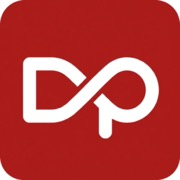
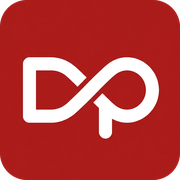
minor changes

diff --git a/app/pages/products/[id].vue b/app/pages/products/[id].vue
@@ -25,7 +25,32 @@ interface ProductDetail {
   features: string[]
 }
 
+interface ProductSummary {
+  id: number
+  name: string
+  category: string
+  image: string
+  rating: number
+  reviews: number
+  badge: string | null
+}
+
 const { data: product, status } = await useFetch<ProductDetail>(`/api/products/${productId}`)
+
+// Fetch all products for the related section
+const { data: allProducts } = await useFetch<ProductSummary[]>('/api/products', {
+  lazy: true,
+  default: () => [],
+})
+
+// Related products: same category first, then others, exclude current, limit to 4
+const relatedProducts = computed(() => {
+  if (!allProducts.value || !product.value) return []
+  const others = allProducts.value.filter(p => p.id !== productId)
+  const sameCategory = others.filter(p => p.category === product.value!.category)
+  const diffCategory = others.filter(p => p.category !== product.value!.category)
+  return [...sameCategory, ...diffCategory].slice(0, 4)
+})
 
 
 // ─── Reactive state ───
@@ -301,6 +326,86 @@ useHead({
                 </Transition>
               </div>
             </div>
+          </div>
+        </div>
+      </section>
+
+      <!-- ═══════════════════════ RELATED PRODUCTS ═══════════════════════ -->
+      <section v-if="relatedProducts.length" class="py-16 px-6 lg:px-20 bg-[#FAFAFA] border-t border-[#E5E5E5]" aria-labelledby="related-heading">
+        <div class="max-w-7xl mx-auto">
+          <div class="flex items-center justify-between mb-8">
+            <h2 id="related-heading" class="font-['Newsreader'] text-2xl lg:text-3xl font-medium text-[#1A1A1A]">
+              Sản phẩm liên quan
+            </h2>
+            <NuxtLink
+              to="/products"
+              class="hidden sm:inline-flex items-center gap-2 text-sm font-medium text-[#0D6E6E] hover:text-[#0A5858] transition-colors"
+            >
+              Xem tất cả
+              <Icon name="solar:arrow-right-outline" size="16" aria-hidden="true" />
+            </NuxtLink>
+          </div>
+
+          <div class="grid grid-cols-2 lg:grid-cols-4 gap-4 lg:gap-6">
+            <NuxtLink
+              v-for="rp in relatedProducts"
+              :key="rp.id"
+              :to="`/products/${rp.id}`"
+              class="group bg-white rounded-2xl overflow-hidden border border-[#E5E5E5] hover:border-[#0D6E6E]/30 hover:shadow-lg transition-all duration-300"
+            >
+              <!-- Image -->
+              <div class="relative aspect-square overflow-hidden bg-[#F5F5F5]">
+                <NuxtImg
+                  :src="rp.image"
+                  :alt="rp.name"
+                  loading="lazy"
+                  decoding="async"
+                  width="400"
+                  height="400"
+                  class="w-full h-full object-cover group-hover:scale-105 transition-transform duration-500"
+                />
+                <!-- Badge -->
+                <span
+                  v-if="rp.badge"
+                  class="absolute top-3 right-3 inline-flex items-center gap-1 px-2.5 py-1 rounded-full text-[11px] font-semibold"
+                  :class="rp.badge === 'Mới' ? 'bg-[#0D6E6E] text-white' : 'bg-[#DC2626] text-white'"
+                >
+                  <Icon :name="rp.badge === 'Mới' ? 'solar:star-bold' : 'solar:tag-price-bold'" size="10" aria-hidden="true" />
+                  {{ rp.badge }}
+                </span>
+              </div>
+              <!-- Info -->
+              <div class="p-4 space-y-2">
+                <h3 class="text-sm font-medium text-[#1A1A1A] leading-snug line-clamp-2 group-hover:text-[#0D6E6E] transition-colors">
+                  {{ rp.name }}
+                </h3>
+                <!-- Rating -->
+                <div class="flex items-center gap-1">
+                  <div class="flex items-center gap-0.5">
+                    <Icon
+                      v-for="star in 5"
+                      :key="star"
+                      name="solar:star-bold"
+                      size="12"
+                      :class="star <= rp.rating ? 'text-amber-400' : 'text-gray-200'"
+                      aria-hidden="true"
+                    />
+                  </div>
+                  <span class="text-xs text-[#999]">({{ rp.reviews }})</span>
+                </div>
+              </div>
+            </NuxtLink>
+          </div>
+
+          <!-- Mobile: View all link -->
+          <div class="flex justify-center mt-8 sm:hidden">
+            <NuxtLink
+              to="/products"
+              class="inline-flex items-center gap-2 px-6 py-3 text-sm font-medium text-[#0D6E6E] border border-[#0D6E6E]/30 rounded-xl hover:bg-[#0D6E6E]/5 transition-colors"
+            >
+              Xem tất cả sản phẩm
+              <Icon name="solar:arrow-right-outline" size="16" aria-hidden="true" />
+            </NuxtLink>
           </div>
         </div>
       </section>

diff --git a/app/components/TheFooter.vue b/app/components/TheFooter.vue
@@ -79,6 +79,71 @@ const footerLinks = {
         </nav>
       </div>
 
+      <!-- ═══ Contact Info + Map ═══ -->
+      <div class="border-t border-[#1E293B] pt-10 pb-10">
+        <div class="grid grid-cols-1 lg:grid-cols-2 gap-10">
+          <!-- Contact Details -->
+          <div class="space-y-5">
+            <h3 class="text-sm font-semibold text-white uppercase tracking-wider flex items-center gap-2">
+              <Icon name="solar:map-point-wave-outline" size="16" class="text-[#0D6E6E]" aria-hidden="true" />
+              Thông tin liên hệ
+            </h3>
+            <div class="space-y-4">
+              <!-- Address -->
+              <div class="flex items-start gap-3">
+                <Icon name="solar:home-2-outline" size="18" class="text-[#94A3B8] mt-0.5 flex-shrink-0" aria-hidden="true" />
+                <div>
+                  <p class="text-xs font-medium text-[#94A3B8] uppercase tracking-wider mb-1">Địa chỉ</p>
+                  <p class="text-sm text-[#CBD5E1] leading-relaxed">
+                    Số 67, Tổ 3, Thôn Tân Bình, Xã Xuân Mai, Thành phố Hà Nội
+                  </p>
+                </div>
+              </div>
+              <!-- Phone -->
+              <div class="flex items-start gap-3">
+                <Icon name="solar:phone-calling-outline" size="18" class="text-[#94A3B8] mt-0.5 flex-shrink-0" aria-hidden="true" />
+                <div>
+                  <p class="text-xs font-medium text-[#94A3B8] uppercase tracking-wider mb-1">Hotline</p>
+                  <a href="tel:0968164783" class="text-sm text-[#CBD5E1] hover:text-white transition-colors">0968 164 783</a>
+                </div>
+              </div>
+              <!-- Zalo -->
+              <div class="flex items-start gap-3">
+                <Icon name="solar:chat-round-dots-outline" size="18" class="text-[#94A3B8] mt-0.5 flex-shrink-0" aria-hidden="true" />
+                <div>
+                  <p class="text-xs font-medium text-[#94A3B8] uppercase tracking-wider mb-1">Zalo</p>
+                  <a href="https://zalo.me/0968164783" target="_blank" rel="noopener noreferrer" class="text-sm text-[#CBD5E1] hover:text-white transition-colors">zalo.me/0968164783</a>
+                </div>
+              </div>
+              <!-- Map link -->
+              <a
+                href="https://maps.app.goo.gl/ULHJwXTF4Xe7MoTQ7"
+                target="_blank"
+                rel="noopener noreferrer"
+                class="inline-flex items-center gap-2 mt-2 text-sm font-medium text-[#0D6E6E] hover:text-[#10B981] transition-colors"
+              >
+                <Icon name="solar:map-arrow-right-outline" size="16" aria-hidden="true" />
+                Xem trên Google Maps
+              </a>
+            </div>
+          </div>
+
+          <!-- Google Map Embed -->
+          <div class="rounded-xl overflow-hidden border border-[#1E293B] h-[250px] lg:h-[280px]">
+            <iframe
+              src="https://www.google.com/maps/embed?pb=!1m18!1m12!1m3!1d3726.0!2d105.5679!3d20.9249!2m3!1f0!2f0!3f0!3m2!1i1024!2i768!4f13.1!3m3!1m2!1s0x31345b2a2e9fa3b7%3A0x5d2b1e1f1e1e1e1e!2zU-G7kSA2NywgVOG7lSAzLCBUaMO0biBUw6JuIELDrG5oLCBYdcOibiBNYWksIEjDoCBO4buZaQ!5e0!3m2!1svi!2svn!4v1700000000000!5m2!1svi!2svn"
+              width="100%"
+              height="100%"
+              style="border: 0"
+              allowfullscreen
+              loading="lazy"
+              referrerpolicy="no-referrer-when-downgrade"
+              title="Bản đồ Duyên Phượng - Số 67, Tổ 3, Thôn Tân Bình, Xã Xuân Mai, Hà Nội"
+            />
+          </div>
+        </div>
+      </div>
+
       <!-- Divider + Copyright -->
       <div class="border-t border-[#1E293B] pt-6">
         <p class="text-xs text-[#475569]">&copy; {{ currentYear }} Nhà phân phối Duyên Phượng. All rights reserved.</p>

diff --git a/app/components/DuyenPhuongLogo.vue b/app/components/DuyenPhuongLogo.vue
@@ -14,9 +14,9 @@ defineProps<{
       'gap-3': size === 'lg',
     }"
   >
-    <!-- DP monogram logo image -->
+    <!-- DP monogram logo image with cache-bust -->
     <img
-      src="/logo.png"
+      src="/logo.png?v=3"
       alt="Duyên Phượng logo"
       :width="size === 'sm' ? 30 : size === 'lg' ? 42 : 36"
       :height="size === 'sm' ? 30 : size === 'lg' ? 42 : 36"
